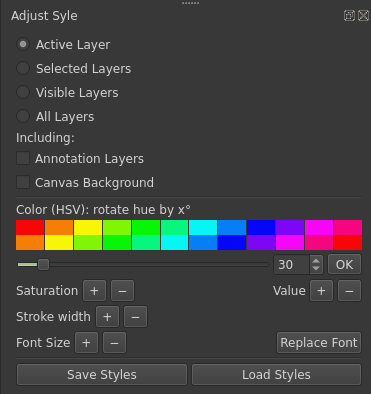
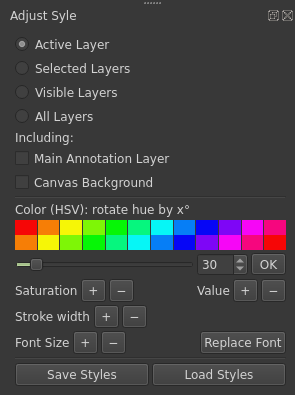
Annotation checkbox only for main annotation layer

diff --git a/i18n/adjust_style_de.ts b/i18n/adjust_style_de.ts
@@ -74,17 +74,17 @@
         <translation>Stile von {} Ebenen geladen, aber kein Erfolg bei {} gewählten Ebenen.</translation>
     </message>
     <message>
-        <location filename="../adjust_style.py" line="1117"/>
+        <location filename="../adjust_style.py" line="1112"/>
         <source>File exists</source>
         <translation>Datei existiert</translation>
     </message>
     <message>
-        <location filename="../adjust_style.py" line="1117"/>
+        <location filename="../adjust_style.py" line="1112"/>
         <source>File {} already exists. Do you want to overwrite it?</source>
         <translation>Datei {} existiert bereits. Möchten Sie diese überschreiben?</translation>
     </message>
     <message>
-        <location filename="../adjust_style.py" line="1135"/>
+        <location filename="../adjust_style.py" line="1130"/>
         <source>Save Style {} failed:</source>
         <translation>Stil von {} konnte nicht gespeichert werden:</translation>
     </message>
@@ -99,7 +99,7 @@
         <translation>Die Datei backgroundcolor.txt existiert bereits. Wollen Sie diese überschreiben?</translation>
     </message>
     <message>
-        <location filename="../adjust_style.py" line="1218"/>
+        <location filename="../adjust_style.py" line="1213"/>
         <source>Preview of rotating color hue (color wheel)</source>
         <translation>Vorschau für die Rotation des Farbtons (Farbkreis drehen)</translation>
     </message>
@@ -258,8 +258,8 @@
     </message>
     <message>
         <location filename="../adjust_style_dockwidget_base.ui" line="79"/>
-        <source>Annotation Layers</source>
-        <translation>Beschriftungsebenen</translation>
+        <source>Main Annotation Layer</source>
+        <translation>Hauptbeschriftungsebene</translation>
     </message>
     <message>
         <location filename="../adjust_style_dockwidget_base.ui" line="86"/>

diff --git a/adjust_style.py b/adjust_style.py
@@ -468,8 +468,7 @@ class AdjustStyle:
         
         # Handle Annotation layers
         if isinstance(layer, QgsAnnotationLayer):
-            if self.dockwidget.checkAnnotation.isChecked():
-                self.change_annotationlayer_colors(layer)
+            self.change_annotationlayer_colors(layer)
             # Quit function, nothing else to do
             return
 
@@ -812,8 +811,6 @@ class AdjustStyle:
         
         # Handle Annotation layers
         if isinstance(layer, QgsAnnotationLayer):
-            if not self.dockwidget.checkAnnotation.isChecked():
-                return
             for item in layer.items().values():
                 if not (isinstance(item, QgsAnnotationPointTextItem) or isinstance(item, QgsAnnotationLineTextItem)):
                     symbol = item.symbol()
@@ -967,8 +964,6 @@ class AdjustStyle:
             self.iface.layerTreeView().refreshLayerSymbology(layer.id())
 
         elif isinstance(layer, QgsAnnotationLayer):
-            if not self.dockwidget.checkAnnotation.isChecked():
-                return
             for item in layer.items().values():
                 if isinstance(item, QgsAnnotationPointTextItem) or isinstance(item, QgsAnnotationLineTextItem):
                     self.change_font_size(item)
@@ -1038,7 +1033,7 @@ class AdjustStyle:
                     except AttributeError:
                         pass
         
-        elif isinstance(layer, QgsAnnotationLayer) and self.dockwidget.checkAnnotation.isChecked():
+        elif isinstance(layer, QgsAnnotationLayer):
             for item in layer.items().values():
                 if isinstance(item, QgsAnnotationPointTextItem) or isinstance(item, QgsAnnotationLineTextItem):
                     format = item.format()
@@ -1077,7 +1072,7 @@ class AdjustStyle:
             self.iface.layerTreeView().refreshLayerSymbology(layer.id())
             layer.emitStyleChanged()     
 
-        elif isinstance(layer, QgsAnnotationLayer) and self.dockwidget.checkAnnotation.isChecked():
+        elif isinstance(layer, QgsAnnotationLayer):
             for item in layer.items().values():
                 if isinstance(item, QgsAnnotationPointTextItem) or isinstance(item, QgsAnnotationLineTextItem):
                     format = item.format()

diff --git a/README.md b/README.md
@@ -34,7 +34,7 @@ First, select the layers you want to work on. Possible choices:
 - Visible Layers
 - All Layers 
 Optionally check to include:
-- Annotation layers (both, annotations in the projects main annotation layer or additional annotation layers)
+- Main Annotation Layer
 - Canvas background color
 
 ### Change Color
